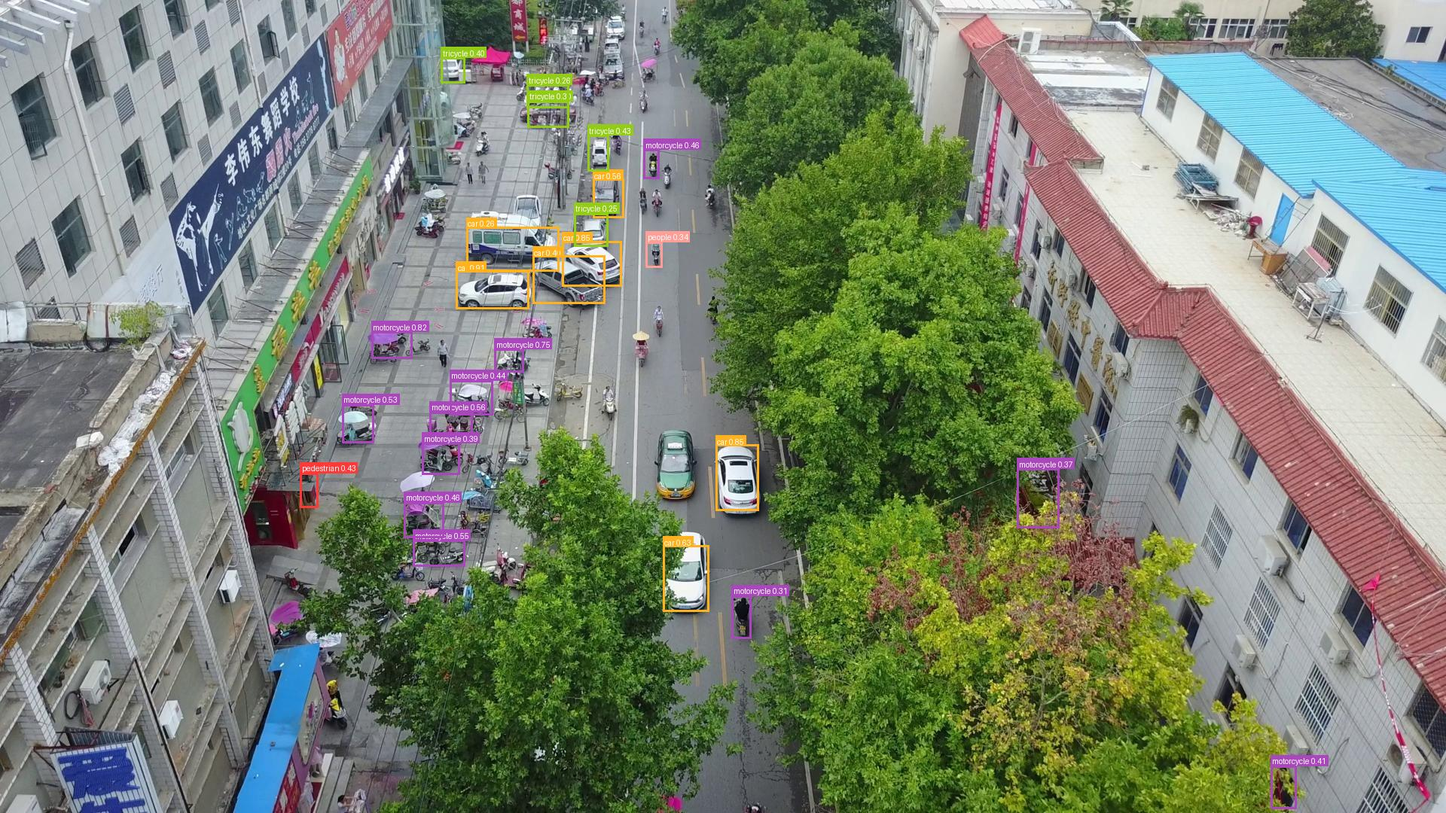
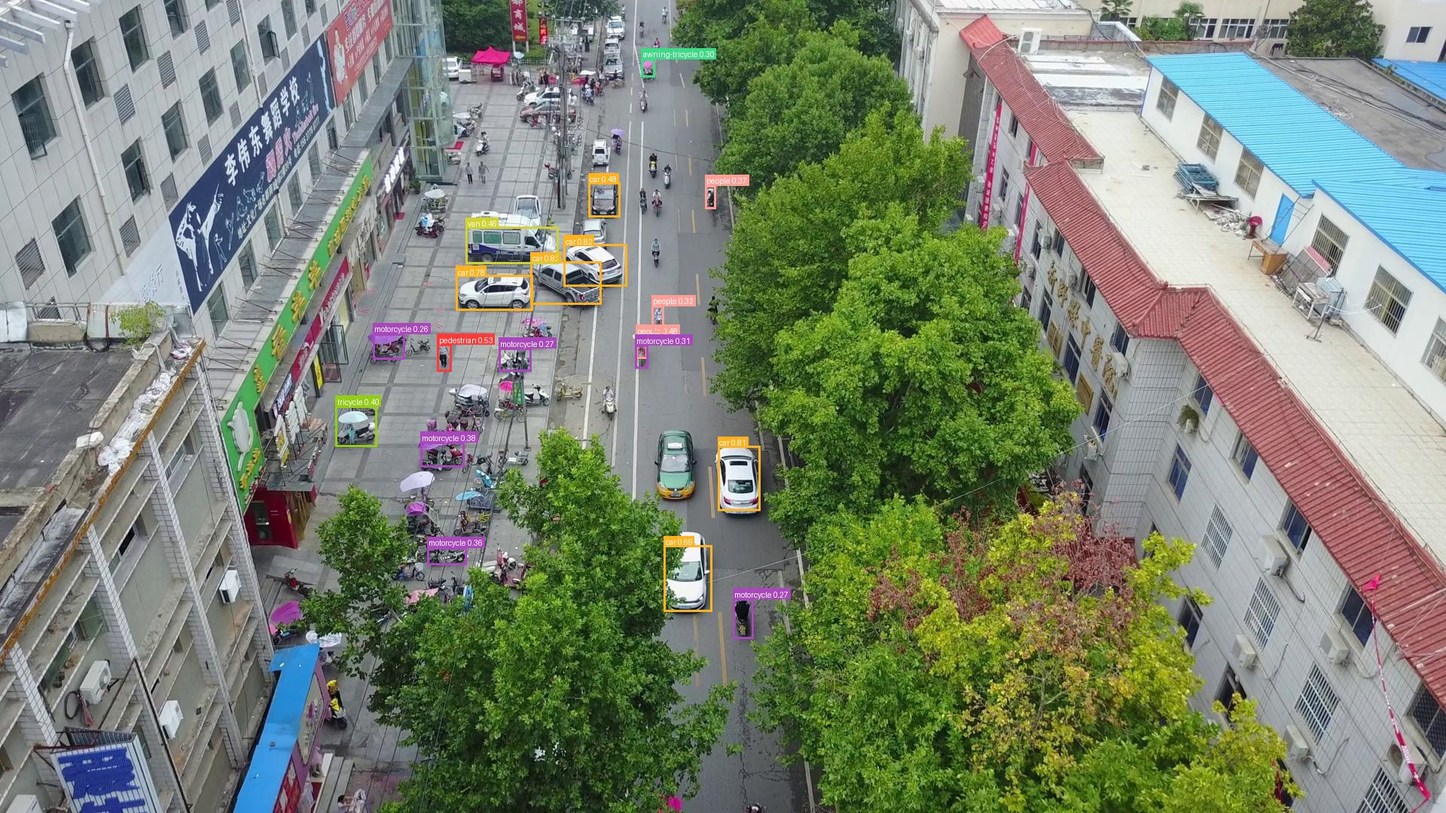
updating

diff --git a/VisDrone_yolov11/output_val_epoch40/dashboard.html b/VisDrone_yolov11/output_val_epoch40/dashboard.html
@@ -1,0 +1,39 @@
+<!DOCTYPE html>
+<html lang="en">
+<head>
+<meta charset="utf-8">
+<title>VisDrone YOLOv11 Component Validation Dashboard</title>
+<style>
+  body { font-family: -apple-system, BlinkMacSystemFont, "Segoe UI", Roboto, sans-serif; margin: 24px; background: #f5f7fa; color: #222; }
+  h1, h2 { color: #1f3a60; }
+  .kpi-grid { display: grid; grid-template-columns: repeat(auto-fit, minmax(180px, 1fr)); gap: 12px; margin-bottom: 24px; }
+  .kpi { background: #fff; padding: 14px; border-radius: 8px; box-shadow: 0 1px 4px rgba(0,0,0,0.08); }
+  .kpi .lbl { font-size: 12px; color: #666; text-transform: uppercase; }
+  .kpi .val { font-size: 22px; font-weight: 700; color: #1f3a60; margin-top: 4px; }
+  .card { background: #fff; padding: 18px; border-radius: 8px; box-shadow: 0 1px 4px rgba(0,0,0,0.08); margin-bottom: 24px; overflow-x: auto; }
+  table { border-collapse: collapse; width: 100%; font-size: 13px; }
+  th, td { border: 1px solid #e1e5eb; padding: 6px 10px; text-align: right; }
+  th { background: #1f3a60; color: #fff; text-align: center; }
+  td:first-child, td:nth-child(2) { text-align: left; font-weight: 600; }
+  tr:nth-child(even) { background: #f9fbfd; }
+</style>
+</head>
+<body>
+  <h1>VisDrone YOLOv11 Component-by-Component Validation</h1>
+  <div class="kpi-grid">
+    <div class="kpi"><div class="lbl">mAP@0.50</div><div class="val">0.2272</div></div>
+    <div class="kpi"><div class="lbl">mAP@0.50:0.95</div><div class="val">0.1094</div></div>
+    <div class="kpi"><div class="lbl">mAP S / M / L</div><div class="val">0.055 / 0.176 / 0.000</div></div>
+    <div class="kpi"><div class="lbl">Precision / Recall (0.25)</div><div class="val">0.499 / 0.184</div></div>
+    <div class="kpi"><div class="lbl">Latency / FPS</div><div class="val">45.7 ms (21.9)</div></div>
+    <div class="kpi"><div class="lbl">Total Params</div><div class="val">2.64M</div></div>
+  </div>
+  <h2>Slot+FiLM Diagnostics</h2><div class='kpi-grid'><div class='kpi'><div class='lbl'>slot_cos_sep</div><div class='val'>0.9276</div></div><div class='kpi'><div class='lbl'>slot_share_p3_pct</div><div class='val'>74.7900</div></div><div class='kpi'><div class='lbl'>slot_share_p4_pct</div><div class='val'>19.1500</div></div><div class='kpi'><div class='lbl'>slot_share_p5_pct</div><div class='val'>6.0600</div></div></div>
+  <h2>Box Learning Mechanism Diagnostics (Boundary, TAL, DFL & Gradient Conflict)</h2><div class='kpi-grid'><div class='kpi'><div class='lbl'>boundary_contrast_p3</div><div class='val'>0.7121</div></div><div class='kpi'><div class='lbl'>boundary_contrast_p4</div><div class='val'>0.6070</div></div><div class='kpi'><div class='lbl'>boundary_contrast_p5</div><div class='val'>0.6196</div></div><div class='kpi'><div class='lbl'>intra_box_decorr_p3</div><div class='val'>0.2313</div></div><div class='kpi'><div class='lbl'>intra_box_decorr_p4</div><div class='val'>0.4525</div></div><div class='kpi'><div class='lbl'>intra_box_decorr_p5</div><div class='val'>0.6033</div></div><div class='kpi'><div class='lbl'>gt_coverage_all_pct</div><div class='val'>95.2704</div></div><div class='kpi'><div class='lbl'>gt_coverage_small_pct</div><div class='val'>93.5810</div></div><div class='kpi'><div class='lbl'>avg_pos_per_gt</div><div class='val'>6.7235</div></div><div class='kpi'><div class='lbl'>dfl_clipping_rate_pct</div><div class='val'>0.0650</div></div><div class='kpi'><div class='lbl'>dfl_entropy_pos</div><div class='val'>0.2941</div></div><div class='kpi'><div class='lbl'>dfl_top1_prob</div><div class='val'>0.6478</div></div><div class='kpi'><div class='lbl'>grad_cos_box_vs_cls_p3</div><div class='val'>0.0256</div></div><div class='kpi'><div class='lbl'>grad_cos_box_vs_cls_p4</div><div class='val'>0.0246</div></div><div class='kpi'><div class='lbl'>grad_cos_box_vs_cls_p5</div><div class='val'>0.0068</div></div><div class='kpi'><div class='lbl'>grad_ratio_box_over_cls_p3</div><div class='val'>15.9551</div></div><div class='kpi'><div class='lbl'>grad_ratio_box_over_cls_p4</div><div class='val'>16.6126</div></div><div class='kpi'><div class='lbl'>grad_ratio_box_over_cls_p5</div><div class='val'>6.9943</div></div></div>
+  <div class="card">
+    <h2>Component-by-Component Breakdown</h2>
+    <table><thead><tr><th>component</th><th>module_group</th><th>params_k</th><th>act_mean</th><th>act_std</th><th>neg_frac</th><th>zero_frac</th><th>l2_mean</th><th>small_ratio</th><th>medium_ratio</th><th>large_ratio</th><th>all_ratio</th><th>full_fisher</th><th>pca_fisher</th><th>class_cos_sep</th><th>fg_mass_pct</th></tr></thead><tbody><tr><td>backbone.stage0</td><td>backbone</td><td>0.46</td><td>0.2144</td><td>0.5913</td><td>0.4688</td><td>0.0002</td><td>2.1609</td><td>1.4028</td><td>1.3611</td><td>1.3448</td><td>1.369</td><td>0.0633</td><td>0.0829</td><td>0.1809</td><td>10.0467</td></tr><tr><td>backbone.stage1</td><td>backbone</td><td>4.67</td><td>0.2268</td><td>0.4953</td><td>0.4156</td><td>0.0003</td><td>2.879</td><td>1.2647</td><td>1.2856</td><td>1.2582</td><td>1.2711</td><td>0.0615</td><td>0.0923</td><td>0.1897</td><td>10.2391</td></tr><tr><td>backbone.stage2</td><td>backbone</td><td>6.64</td><td>0.1991</td><td>0.5777</td><td>0.4801</td><td>0.0002</td><td>4.4182</td><td>1.5036</td><td>1.4827</td><td>1.3898</td><td>1.469</td><td>0.0553</td><td>0.1233</td><td>0.1668</td><td>11.4048</td></tr><tr><td>backbone.stage3</td><td>backbone</td><td>36.99</td><td>0.202</td><td>0.5427</td><td>0.4704</td><td>0.0002</td><td>4.3856</td><td>1.273</td><td>1.3625</td><td>1.3353</td><td>1.3225</td><td>0.0848</td><td>0.2082</td><td>0.2215</td><td>11.9606</td></tr><tr><td>backbone.stage4 (feat4 //8)</td><td>backbone</td><td>26.08</td><td>0.1248</td><td>0.5055</td><td>0.5509</td><td>0.0002</td><td>5.4783</td><td>1.522</td><td>1.5439</td><td>1.4846</td><td>1.5215</td><td>0.0533</td><td>0.164</td><td>0.2728</td><td>13.258</td></tr><tr><td>backbone.stage5</td><td>backbone</td><td>147.71</td><td>0.1739</td><td>0.5561</td><td>0.5235</td><td>0.0002</td><td>6.2714</td><td>1.4156</td><td>1.4569</td><td>1.4325</td><td>1.4278</td><td>0.0676</td><td>0.237</td><td>0.3031</td><td>15.6993</td></tr><tr><td>backbone.stage6 (feat6 //16)</td><td>backbone</td><td>87.04</td><td>0.1882</td><td>0.5824</td><td>0.5133</td><td>0.0002</td><td>6.4488</td><td>1.5658</td><td>1.6438</td><td>1.5762</td><td>1.5947</td><td>0.0738</td><td>0.2525</td><td>0.3115</td><td>17.0047</td></tr><tr><td>backbone.stage7</td><td>backbone</td><td>295.42</td><td>0.1565</td><td>0.537</td><td>0.5356</td><td>0.0002</td><td>8.624</td><td>1.3312</td><td>1.4466</td><td>1.4365</td><td>1.3871</td><td>0.0746</td><td>0.2933</td><td>0.4111</td><td>21.0918</td></tr><tr><td>backbone.stage8</td><td>backbone</td><td>346.11</td><td>0.2063</td><td>0.5841</td><td>0.5062</td><td>0.0002</td><td>9.6057</td><td>1.319</td><td>1.3477</td><td>1.3225</td><td>1.3225</td><td>0.1114</td><td>0.3392</td><td>0.3236</td><td>20.2731</td></tr><tr><td>backbone.stage9 (SPPF)</td><td>backbone</td><td>164.61</td><td>0.1735</td><td>0.5437</td><td>0.5303</td><td>0.0002</td><td>9.0007</td><td>1.1241</td><td>1.155</td><td>1.1854</td><td>1.1511</td><td>0.2147</td><td>0.4167</td><td>0.3561</td><td>18.2651</td></tr><tr><td>backbone.stage10 (feat10 //32)</td><td>backbone</td><td>249.73</td><td>0.1095</td><td>0.4738</td><td>0.5541</td><td>0.0003</td><td>7.4088</td><td>1.0769</td><td>0.9757</td><td>1.066</td><td>1.0423</td><td>0.1831</td><td>0.3827</td><td>0.3599</td><td>16.8236</td></tr><tr><td>neck.c3k2_13 (TD //16)</td><td>neck</td><td>111.3</td><td>0.1991</td><td>0.5945</td><td>0.5054</td><td>0.0002</td><td>6.5551</td><td>1.3101</td><td>1.5682</td><td>1.7249</td><td>1.5076</td><td>0.1688</td><td>0.387</td><td>0.3366</td><td>16.3706</td></tr><tr><td>neck.c3k2_16 (P3 //8)</td><td>neck</td><td>32.1</td><td>0.2454</td><td>0.5904</td><td>0.4456</td><td>0.0002</td><td>4.5982</td><td>2.012</td><td>1.9636</td><td>1.6612</td><td>1.9278</td><td>0.2872</td><td>0.5301</td><td>0.2354</td><td>15.729</td></tr><tr><td>neck.c3k2_19 (P4 //16)</td><td>neck</td><td>86.72</td><td>0.225</td><td>0.6058</td><td>0.4648</td><td>0.0002</td><td>6.578</td><td>1.7025</td><td>1.8359</td><td>1.7722</td><td>1.7747</td><td>0.1379</td><td>0.2915</td><td>0.3066</td><td>18.444</td></tr><tr><td>neck.c3k2_22 (P5 //32)</td><td>neck</td><td>378.88</td><td>0.1709</td><td>0.5789</td><td>0.5178</td><td>0.0002</td><td>8.7148</td><td>1.3394</td><td>1.562</td><td>1.8138</td><td>1.4897</td><td>0.1162</td><td>0.2556</td><td>0.362</td><td>22.2055</td></tr><tr><td>head.cv2_p3 (Box //8)</td><td>head</td><td>78.14</td><td>-0.9912</td><td>4.0295</td><td>0.5934</td><td>0.0</td><td>29.0628</td><td>2.56</td><td>1.4755</td><td>0.6981</td><td>1.7286</td><td>0.9904</td><td>0.4857</td><td>0.045</td><td>13.2309</td></tr><tr><td>head.cv2_p4 (Box //16)</td><td>head</td><td>115.01</td><td>-1.6568</td><td>4.91</td><td>0.7034</td><td>0.0</td><td>31.4223</td><td>1.8679</td><td>1.8984</td><td>1.1955</td><td>1.7854</td><td>0.6724</td><td>0.6697</td><td>0.0406</td><td>18.0976</td></tr><tr><td>head.cv2_p5 (Box //32)</td><td>head</td><td>188.74</td><td>-2.4665</td><td>3.437</td><td>0.7575</td><td>0.0</td><td>31.2823</td><td>1.4848</td><td>1.5552</td><td>1.7846</td><td>1.5375</td><td>0.4741</td><td>0.3777</td><td>0.0274</td><td>22.5832</td></tr><tr><td>slot.cls_p3 (FiLM //8)</td><td>slot</td><td>52.1</td><td>-0.0261</td><td>1.022</td><td>0.5269</td><td>0.0001</td><td>7.9849</td><td>1.5051</td><td>1.4585</td><td>1.3209</td><td>1.4537</td><td>0.4696</td><td>0.7784</td><td>0.1232</td><td>12.6256</td></tr><tr><td>slot.cls_p4 (FiLM //16)</td><td>slot</td><td>52.1</td><td>0.1859</td><td>0.6301</td><td>0.4518</td><td>0.0002</td><td>6.7619</td><td>1.7641</td><td>1.787</td><td>1.7486</td><td>1.7584</td><td>0.2129</td><td>0.5781</td><td>0.3268</td><td>18.272</td></tr><tr><td>slot.cls_p5 (FiLM //32)</td><td>slot</td><td>52.1</td><td>0.1841</td><td>0.6629</td><td>0.4525</td><td>0.0002</td><td>10.0239</td><td>1.4284</td><td>1.706</td><td>2.0011</td><td>1.6172</td><td>0.166</td><td>0.4631</td><td>0.3086</td><td>23.5088</td></tr><tr><td>head.cv3_p3 (Cls //8)</td><td>head</td><td>10.51</td><td>-12.485</td><td>1.2523</td><td>1.0</td><td>0.0</td><td>0.0005</td><td>99.4682</td><td>1.9156</td><td>0.6905</td><td>35.4935</td><td>0.2573</td><td>0.2973</td><td>0.0078</td><td>53.2165</td></tr><tr><td>head.cv3_p4 (Cls //16)</td><td>head</td><td>15.31</td><td>-12.3804</td><td>1.6938</td><td>0.9999</td><td>0.0</td><td>0.0035</td><td>184.5196</td><td>34.5653</td><td>1.2829</td><td>71.8489</td><td>0.2854</td><td>0.4524</td><td>0.0217</td><td>74.9351</td></tr><tr><td>head.cv3_p5 (Cls //32)</td><td>head</td><td>24.91</td><td>-12.5208</td><td>2.4795</td><td>0.9985</td><td>0.0</td><td>0.0189</td><td>97.9239</td><td>190.0577</td><td>24.5771</td><td>132.0559</td><td>0.3561</td><td>0.3287</td><td>0.0251</td><td>87.832</td></tr></tbody></table>
+  </div>
+  <div class='card'><h3>Component-by-Component Progression</h3><img src='chart_01_component_progression.png' style='max-width:100%;'></div><div class='card'><h3>Backbone vs Neck Multi-Scale Comparison</h3><img src='chart_02_backbone_vs_neck_multiscale.png' style='max-width:100%;'></div><div class='card'><h3>Head Scale Share &amp; Detection AP Summary</h3><img src='chart_03_head_and_detection_summary.png' style='max-width:100%;'></div><div class='card'><h3>Visual Feature Inspection</h3><img src='chart_04_feature_visual_inspection.png' style='max-width:100%;'></div><div class='card'><h3>Pairwise Class Cosine Separation (Neck P3)</h3><img src='chart_05_pairwise_class_separation.png' style='max-width:100%;'></div>
+</body>
+</html>

diff --git a/VisDrone_yolov11/slot_module.py b/VisDrone_yolov11/slot_module.py
@@ -236,8 +236,8 @@ class PostNeckSlotFiLMRefiner(nn.Module):
 
                 if self.fusion_mode == "film":
                     delta_gamma, delta_beta = self.modulators[i](slot_map_i).chunk(2, dim=1)
-                    # Bound multiplicative FiLM scale to (0, 2) to prevent gradient explosion
-                    f_cls = f * (1.0 + torch.tanh(delta_gamma)) + delta_beta
+                    # Bound both FiLM scale [0.5, 1.5] and shift [-0.5, +0.5] so P3 l2_mean & small_ratio stay clean
+                    f_cls = f * (1.0 + 0.5 * torch.tanh(delta_gamma)) + 0.5 * torch.tanh(delta_beta)
                 else:
                     f_cls = f + self.modulators[i](slot_map_i)
                 cls_feats.append(f_cls.to(dtype=orig_dtype))
